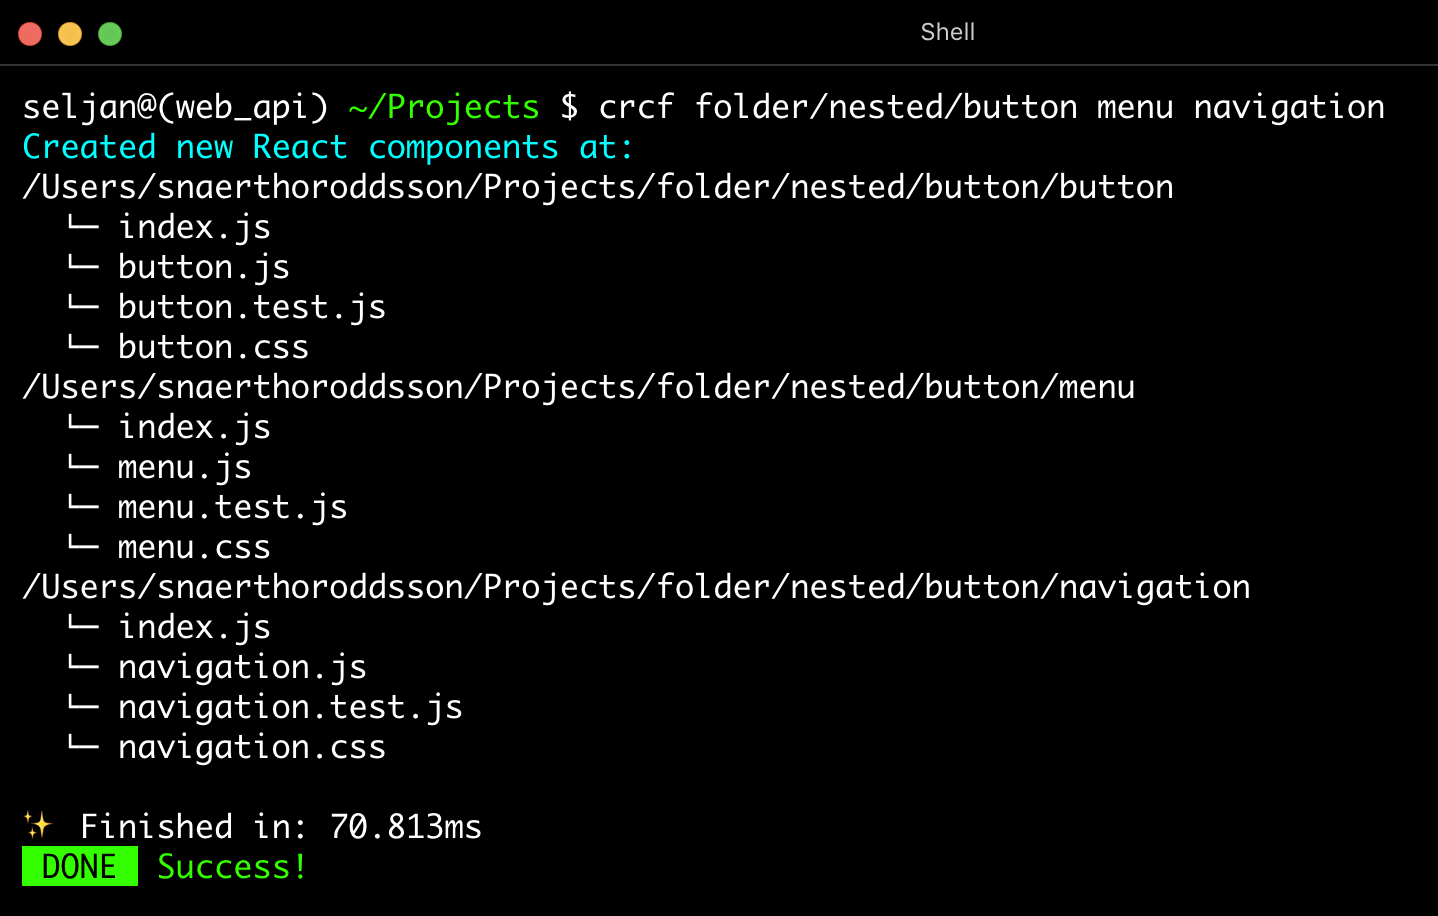
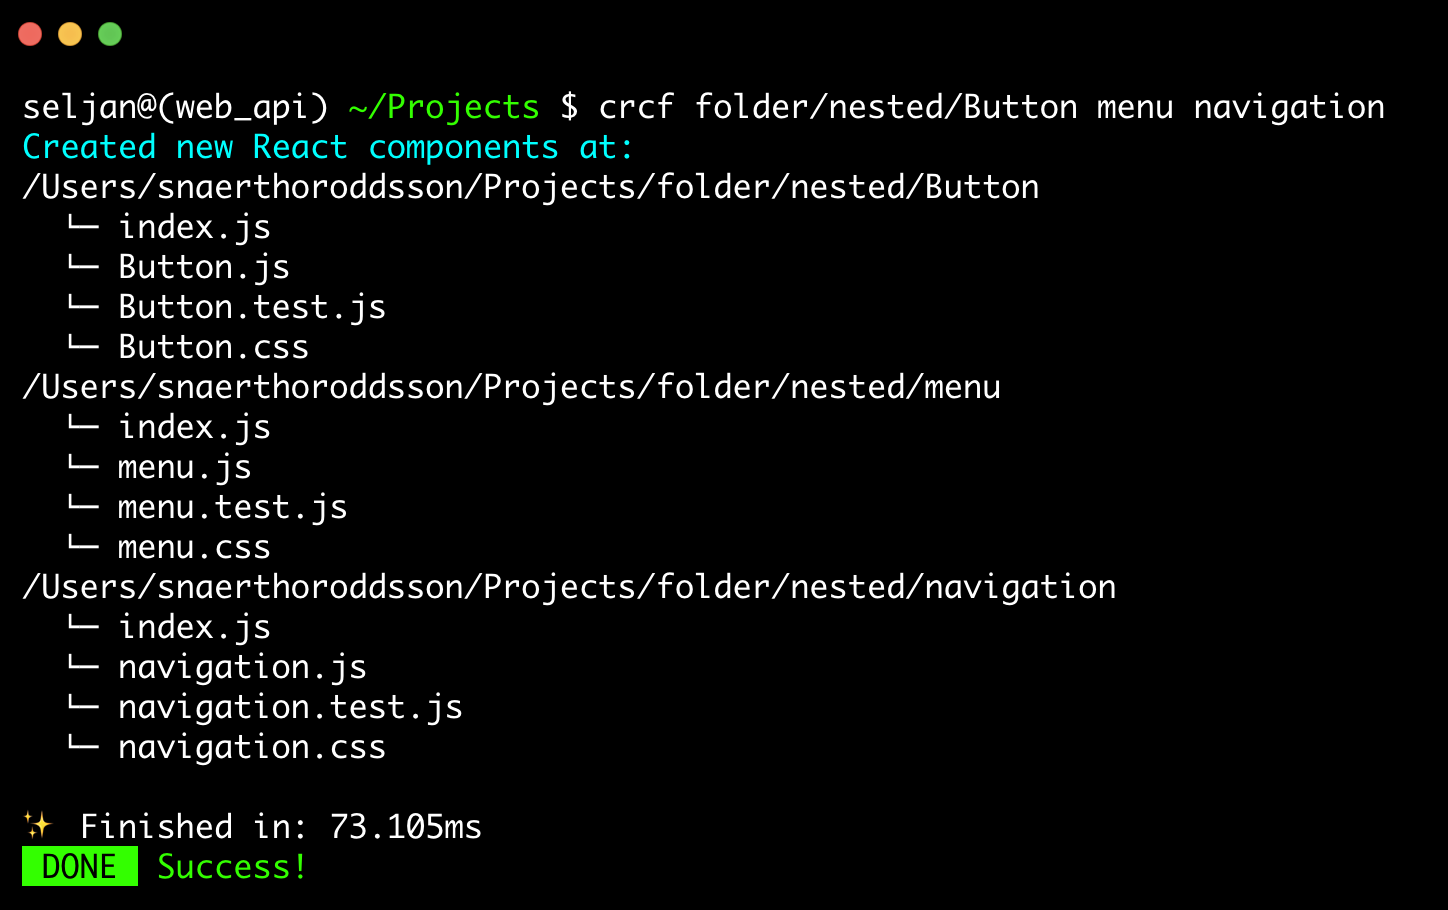
Updated images

Changed region(s): [[0.0, 0.0923, 0.9791, 0.8615], [0.0, 0.8923, 0.3366, 0.9846], [0.6426, 0.0308, 0.6732, 0.0615]]

diff --git a/index.js b/index.js
@@ -218,7 +218,7 @@ function initialize() {
       for (let i = 0; i < filesArrData.length; i += 1) {
         const name = filesArrData[i][0];
         const filesArr = filesArrData[i];
-        logger.log(`${componentPath}/${name}`);
+        logger.log(folderPath + name);
 
         // Log files
         for (let i = 1; i < filesArr.length; i += 1) {
